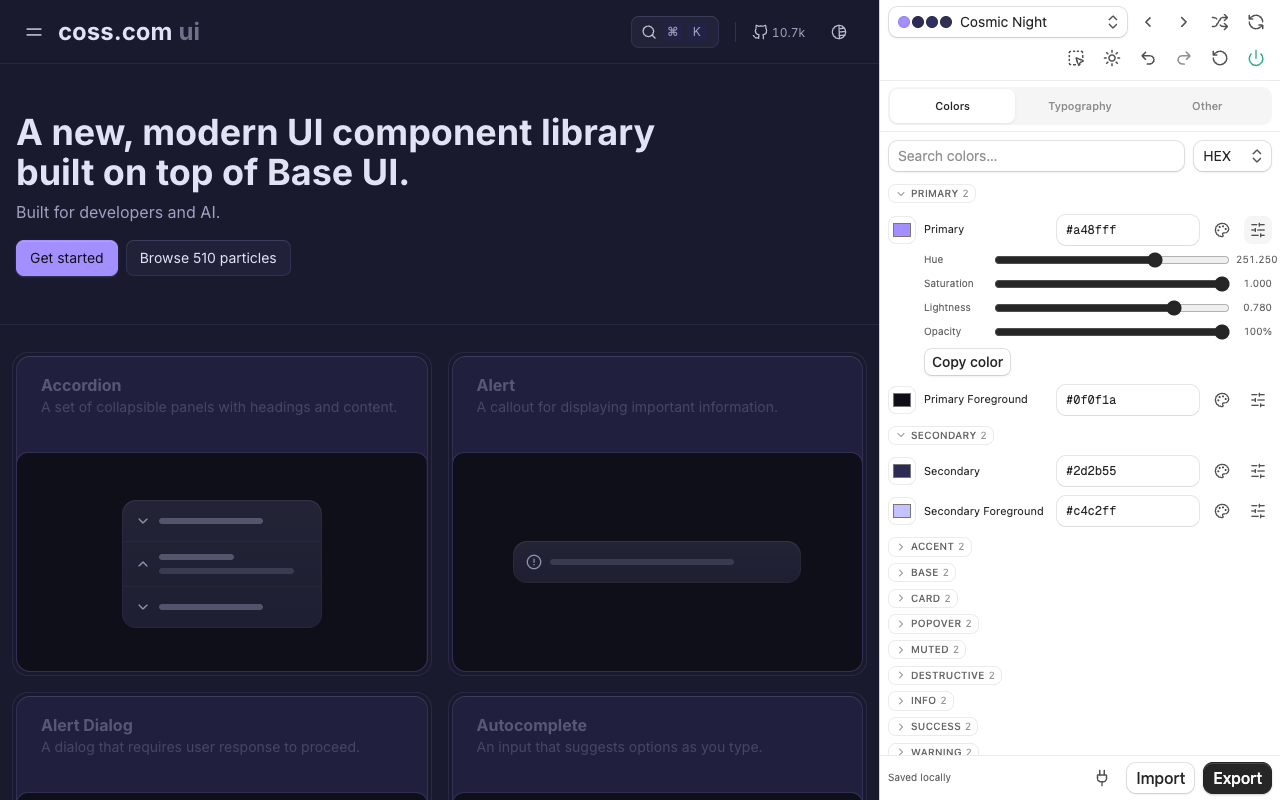
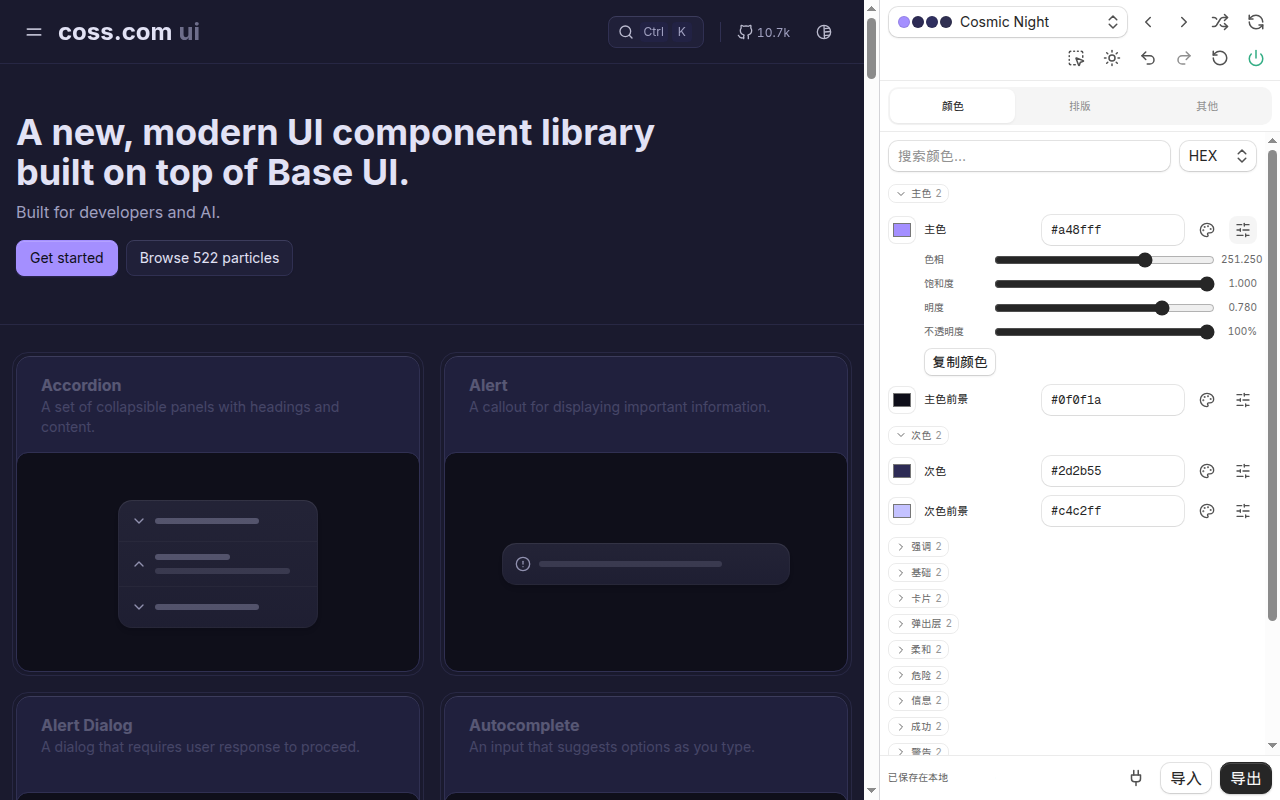
把令牌显示名和文档定义改成中文
控件上的 Primary、Font Sans 等显示名改为中文，文档定义中文在前。商店截图和落地页配图按中文界面重新导出。

diff --git a/apps/web/src/routes/index.tsx b/apps/web/src/routes/index.tsx
@@ -100,13 +100,13 @@ const ways = [
   {
     icon: CodeIcon,
     title: "在浏览器里",
-    body: "打开 Editor，给真实 coss ui 组件的 Gallery 换主题：卡片、仪表盘、邮件、营销页和应用页。不用安装。",
+    body: "打开编辑器，给真实 coss ui 组件的图库换主题：卡片、仪表盘、邮件、营销页和应用页。不用安装。",
     action: (
       <a
         href="/editor"
         className="inline-flex items-center gap-1 font-medium text-sm hover:underline"
       >
-        打开 Editor <ArrowRightIcon className="size-4" />
+        打开编辑器 <ArrowRightIcon className="size-4" />
       </a>
     ),
   },
@@ -122,8 +122,8 @@ const ways = [
   },
   {
     icon: PaletteIcon,
-    title: "在 Editor 里预览你自己的应用",
-    body: "开发时加一个 script 标签，Editor 的「自定义」标签就会在控件旁边实时给你正在运行的应用换主题。",
+    title: "在编辑器里预览你自己的应用",
+    body: "开发时加一个 script 标签，编辑器的「自定义」标签就会在控件旁边实时给你正在运行的应用换主题。",
     action: (
       <code className="rounded-md bg-muted px-1.5 py-0.5 font-mono text-xs">
         {`<script src="${site}/bridge.js">`}
@@ -169,7 +169,7 @@ const formats = [
   "Tailwind v4 · OKLCH",
   "Tailwind v3 · HSL",
   "shadcn 注册表 JSON",
-  "Token JSON",
+  "令牌 JSON",
   "tailwind.config.js",
   "Next.js 字体",
 ]
@@ -181,7 +181,7 @@ const faqs = [
   },
   {
     q: "主题存在哪里？",
-    a: "只在你的浏览器里。Editor 用本地存储，扩展用 Chrome 的扩展存储。不会发到服务器。",
+    a: "只在你的浏览器里。编辑器用本地存储，扩展用 Chrome 的扩展存储。不会发到服务器。",
   },
   {
     q: "只能用于 coss ui 吗？",
@@ -237,7 +237,7 @@ function Landing() {
             </a>
           </div>
           <Button size="sm" className="ml-auto" render={<a href="/editor" />}>
-            打开 Editor
+            打开编辑器
           </Button>
         </nav>
       </header>
@@ -258,7 +258,7 @@ function Landing() {
             </p>
             <div className="mt-8 flex flex-wrap gap-3">
               <Button size="lg" render={<a href="/editor" />}>
-                打开 Editor
+                打开编辑器
                 <ArrowRightIcon />
               </Button>
               <AddToChrome />
@@ -271,7 +271,7 @@ function Landing() {
           id="ways"
           eyebrow="怎么用"
           title="主题在哪，就在哪改"
-          lede="一个 Editor，三个地方都能用。Cossplay 只覆盖你改过的变量，其余仍跟着你的 CSS。"
+          lede="一个编辑器，三个地方都能用。Cossplay 只覆盖你改过的变量，其余仍跟着你的 CSS。"
         >
           <div className="grid gap-4 md:grid-cols-3">
             {ways.map((way) => (
@@ -292,7 +292,7 @@ function Landing() {
             src="/screenshot.webp"
             width="1280"
             height="800"
-            alt="用 Ocean Breeze 预设换过主题的 coss.com/ui；检查器显示 Get started 按钮的 token，Cossplay 侧边栏打开了 Primary 的通道滑杆"
+            alt="用 Ocean Breeze 预设换过主题的 coss.com/ui；检查器显示 Get started 按钮用到的令牌，Cossplay 侧边栏打开了主色的通道滑杆"
             className="mt-10 w-full rounded-2xl border shadow-xl/5"
             loading="lazy"
           />
@@ -365,7 +365,7 @@ function Landing() {
           </p>
           <div className="mt-8 flex flex-wrap justify-center gap-3">
             <Button size="lg" render={<a href="/editor" />}>
-              打开 Editor
+              打开编辑器
               <ArrowRightIcon />
             </Button>
             <AddToChrome />

diff --git a/apps/web/src/editor/custom.tsx b/apps/web/src/editor/custom.tsx
@@ -236,9 +236,9 @@ export function CustomPreview() {
         <div className="ui-chrome mx-auto flex w-full max-w-2xl flex-col gap-3 overflow-y-auto p-4 text-sm">
           <h2 className="font-semibold text-base">预览你自己的应用</h2>
           <p className="text-muted-foreground">
-            把 Cossplay 的 Bridge
-            加到应用里（只在开发环境即可），启动它，再在上面填 URL。之后 Editor
-            会在你编辑时实时给它换主题。
+            把 Cossplay
+            的桥接脚本加到应用里（只在开发环境即可），启动它，再在上面填
+            URL。之后编辑器会在你编辑时实时给它换主题。
           </p>
           <Setup />
         </div>
@@ -247,7 +247,7 @@ export function CustomPreview() {
           <div className="ui-chrome shrink-0">
             {status === "loading" && (
               <p className="flex items-center gap-2 text-muted-foreground text-xs">
-                <Spinner className="size-3.5" /> 正在连接 Bridge…
+                <Spinner className="size-3.5" /> 正在连接桥接脚本…
               </p>
             )}
             {status === "connected" && (
@@ -260,7 +260,7 @@ export function CustomPreview() {
               <Alert variant="warning">
                 <AlertTitle>已连接，但没有找到 coss ui</AlertTitle>
                 <AlertDescription>
-                  Bridge 在运行，但这个页面没有声明 coss ui 的主题变量（例如
+                  桥接脚本在运行，但这个页面没有声明 coss ui 的主题变量（例如
                   --background、--primary 和
                   --info），所以主题可能显示不出来。请装上 coss ui
                   的主题，然后重新加载。
@@ -269,11 +269,11 @@ export function CustomPreview() {
             )}
             {status === "missing" && (
               <Alert variant="error">
-                <AlertTitle>没有找到 Bridge</AlertTitle>
+                <AlertTitle>没有找到桥接脚本</AlertTitle>
                 <AlertDescription>
                   <p>
-                    {new URL(src).origin} 没有回应。请把 Bridge
-                    脚本加到应用里并重新加载。禁止被嵌入的应用（X-Frame-Options
+                    {new URL(src).origin}{" "}
+                    没有回应。请把桥接脚本加到应用里并重新加载。禁止被嵌入的应用（X-Frame-Options
                     或 frame-ancestors CSP）无法预览。
                   </p>
                   <Setup />

diff --git a/packages/editor/src/controls.tsx b/packages/editor/src/controls.tsx
@@ -27,8 +27,63 @@ import fonts from "./fonts.json"
 import { familyOf } from "./store"
 import tailwindColors from "./tailwind-colors.json"
 
-export const title = (key: string) =>
-  key.replaceAll("-", " ").replace(/\b\w/g, (c) => c.toUpperCase())
+const tokenLabels: Record<string, string> = {
+  primary: "主色",
+  "primary-foreground": "主色前景",
+  secondary: "次色",
+  "secondary-foreground": "次色前景",
+  accent: "强调",
+  "accent-foreground": "强调前景",
+  background: "背景",
+  foreground: "前景",
+  card: "卡片",
+  "card-foreground": "卡片前景",
+  popover: "弹出层",
+  "popover-foreground": "弹出层前景",
+  muted: "柔和",
+  "muted-foreground": "柔和前景",
+  destructive: "危险",
+  "destructive-foreground": "危险前景",
+  info: "信息",
+  "info-foreground": "信息前景",
+  success: "成功",
+  "success-foreground": "成功前景",
+  warning: "警告",
+  "warning-foreground": "警告前景",
+  border: "边框",
+  input: "输入",
+  ring: "焦点环",
+  "chart-1": "图表 1",
+  "chart-2": "图表 2",
+  "chart-3": "图表 3",
+  "chart-4": "图表 4",
+  "chart-5": "图表 5",
+  sidebar: "侧栏",
+  "sidebar-foreground": "侧栏前景",
+  "sidebar-primary": "侧栏主色",
+  "sidebar-primary-foreground": "侧栏主色前景",
+  "sidebar-accent": "侧栏强调",
+  "sidebar-accent-foreground": "侧栏强调前景",
+  "sidebar-border": "侧栏边框",
+  "sidebar-ring": "侧栏焦点环",
+  code: "代码",
+  "code-foreground": "代码前景",
+  "code-highlight": "代码高亮",
+  "shadow-color": "阴影颜色",
+  "font-sans": "无衬线字体",
+  "font-serif": "衬线字体",
+  "font-mono": "等宽字体",
+  radius: "圆角",
+  spacing: "间距",
+  "letter-spacing": "字距",
+  "shadow-opacity": "阴影不透明度",
+  "shadow-blur": "阴影模糊",
+  "shadow-spread": "阴影扩展",
+  "shadow-offset-x": "阴影水平偏移",
+  "shadow-offset-y": "阴影垂直偏移",
+}
+/** 控件上给人看的名字。token 标识本身不变。 */
+export const title = (key: string) => tokenLabels[key] ?? key
 
 const groupLabels: Record<string, string> = {
   Primary: "主色",

diff --git a/apps/web/src/routes/privacy.tsx b/apps/web/src/routes/privacy.tsx
@@ -63,10 +63,10 @@ function Privacy() {
           </p>
         </Part>
 
-        <Part title="网站和网页 Editor">
+        <Part title="网站和网页编辑器">
           <p>
-            cossplay.vercel.app 上的 Editor
-            把主题存在浏览器的本地存储里。加载字体会向 Google Fonts
+            cossplay.vercel.app
+            上的编辑器把主题存在浏览器的本地存储里。加载字体会向 Google Fonts
             请求样式表；从 URL 导入则会拉取该 URL。
           </p>
           <p>
@@ -74,9 +74,8 @@ function Privacy() {
             cookie，也不识别单个访客。
           </p>
           <p>
-            你可以加到自己应用里的 Bridge 脚本，只在应用打开于 Editor
-            的自定义预览时，与 Cossplay Editor 交换主题
-            CSS。它不会把数据发到别处。
+            你可以加到自己应用里的桥接脚本，只在应用打开于编辑器的自定义预览时，与
+            Cossplay 编辑器交换主题 CSS。它不会把数据发到别处。
           </p>
         </Part>
 

diff --git a/packages/core/src/coss/inspector.ts b/packages/core/src/coss/inspector.ts
@@ -57,7 +57,7 @@ export function startInspector(
   host.style.cssText =
     "all: initial; position: fixed; inset: 0; z-index: 2147483647; pointer-events: none;"
   const shadow = host.attachShadow({ mode: "open" })
-  shadow.innerHTML = `<style>${css}</style><div class="box"></div><div class="card" role="dialog" aria-label="主题 token"></div>`
+  shadow.innerHTML = `<style>${css}</style><div class="box"></div><div class="card" role="dialog" aria-label="主题令牌"></div>`
   const box = shadow.querySelector<HTMLElement>(".box")!
   const card = shadow.querySelector<HTMLElement>(".card")!
   document.documentElement.append(host)
@@ -90,7 +90,7 @@ export function startInspector(
     card.replaceChildren(
       Object.assign(document.createElement("div"), {
         className: "title",
-        textContent: "点击 token 即可编辑",
+        textContent: "点击令牌即可编辑",
       }),
       ...[...byToken].map(([token, names]) => {
         const button = document.createElement("button")

diff --git a/packages/editor/src/panel.tsx b/packages/editor/src/panel.tsx
@@ -60,10 +60,8 @@ import {
   groupLabel,
   NumericControl,
   Section,
+  title,
 } from "./controls"
-
-export { groupLabel }
-
 import { ExportDialog, ImportDialog, McpDialog } from "./dialogs"
 import { InspectToggle } from "./inspect"
 import {
@@ -80,6 +78,8 @@ import {
   usePanelStore,
   useTheme,
 } from "./store"
+
+export { groupLabel, title }
 
 const hslControls = [
   { key: "hue", label: "色相偏移", min: -180, max: 180, step: 1 },
@@ -404,7 +404,7 @@ export function PanelSections() {
   const search = usePanelStore((s) => s.search)
   const [issuesOnly, setIssuesOnly] = useState(false)
   const matches = (group: string, key: string) =>
-    `${groupLabel(group)} ${group} ${key}`
+    `${groupLabel(group)} ${title(key)} ${group} ${key}`
       .toLowerCase()
       .includes(search.toLowerCase())
   return (

diff --git a/apps/web/src/editor/palette.tsx b/apps/web/src/editor/palette.tsx
@@ -1,6 +1,6 @@
 import { defaults, groups } from "@cossplay/core/coss"
 import { focusControl } from "@cossplay/editor/inspect"
-import { groupLabel } from "@cossplay/editor/panel"
+import { groupLabel, title } from "@cossplay/editor/panel"
 import { usePanelStore, useTheme } from "@cossplay/editor/store"
 
 // 当前模式的每个颜色 token，分组同面板；色块跳到对应控件。
@@ -28,7 +28,7 @@ export function Palette() {
                   style={{ background: `var(--${token})` }}
                 />
                 <span className="block truncate px-2 pt-1.5 font-medium text-xs">
-                  {token}
+                  {title(token)}
                 </span>
                 <span className="block truncate px-2 pb-1.5 font-mono text-[10px] text-muted-foreground">
                   {theme[mode][token]}

diff --git a/apps/web/src/editor/marketing.tsx b/apps/web/src/editor/marketing.tsx
@@ -28,7 +28,7 @@ import {
 } from "lucide-react"
 import { Person } from "@/editor/cards"
 
-const logos = ["Northwind", "Globex", "Initech", "Umbrella", "Hooli", "Soylent"]
+const logos = ["北风", "环球", "因泰", "保护伞", "胡力", "素伦"]
 
 const features = [
   [GaugeIcon, "默认就快", "页面保持精简，一眨眼就加载完。"],
@@ -64,10 +64,10 @@ const plans = [
 const quotes = [
   [
     "朴丽娜",
-    "Globex 技术负责人",
+    "环球 技术负责人",
     "我们用 Acme 换掉了三个工具，发布节奏翻了一倍。",
   ],
-  ["马库斯", "Hooli 创始人", "光是换主题，就给设计团队省了好几周。"],
+  ["马库斯", "胡力 创始人", "光是换主题，就给设计团队省了好几周。"],
 ]
 
 const faqs = [

diff --git a/apps/web/src/components/particles/p-dialog-1.tsx b/apps/web/src/components/particles/p-dialog-1.tsx
@@ -29,11 +29,11 @@ export default function Particle() {
           <DialogPanel className="grid gap-4">
             <Field>
               <FieldLabel>姓名</FieldLabel>
-              <Input defaultValue="Margaret Welsh" type="text" />
+              <Input defaultValue="林薇" type="text" />
             </Field>
             <Field>
               <FieldLabel>用户名</FieldLabel>
-              <Input defaultValue="@maggie.welsh" type="text" />
+              <Input defaultValue="@lin.wei" type="text" />
             </Field>
           </DialogPanel>
           <DialogFooter>

diff --git a/packages/editor/src/dialogs.tsx b/packages/editor/src/dialogs.tsx
@@ -164,7 +164,7 @@ const exportTypes = {
   v4: { label: "Tailwind v4 · OKLCH CSS", file: "globals.css" },
   v3: { label: "Tailwind v3 · HSL CSS", file: "globals.css" },
   json: { label: "tweakcn / shadcn 注册表 JSON", file: "theme.json" },
-  raw: { label: "浅色 / 深色 token JSON", file: "tokens.json" },
+  raw: { label: "浅色 / 深色令牌 JSON", file: "tokens.json" },
   config: { label: "Tailwind v3 配置", file: "tailwind.config.js" },
   layout: { label: "Next.js 字体布局", file: "layout.tsx" },
 } as const

diff --git a/apps/extension/e2e/extension.spec.ts b/apps/extension/e2e/extension.spec.ts
@@ -226,7 +226,7 @@ test.describe("side panel", () => {
     const preset = await primary()
 
     await panel
-      .getByRole("button", { name: "Primary Tailwind 色板", exact: true })
+      .getByRole("button", { name: "主色 Tailwind 色板", exact: true })
       .click()
     const red = panel.getByRole("button", { name: "red-500", exact: true })
     // 色板要放得进面板。

diff --git a/packages/core/src/coss/theme.ts b/packages/core/src/coss/theme.ts
@@ -200,7 +200,7 @@ export function importOverrides(value: unknown): Overrides {
     !Object.keys(dark).length &&
     !Object.keys(shared).length
   )
-    throw Error("没有识别到 coss 主题 token")
+    throw Error("没有识别到 coss 主题令牌")
   const common = Object.fromEntries(
     Object.entries({ ...shared, ...light }).filter(([key]) =>
       isCommon(key as Token)
